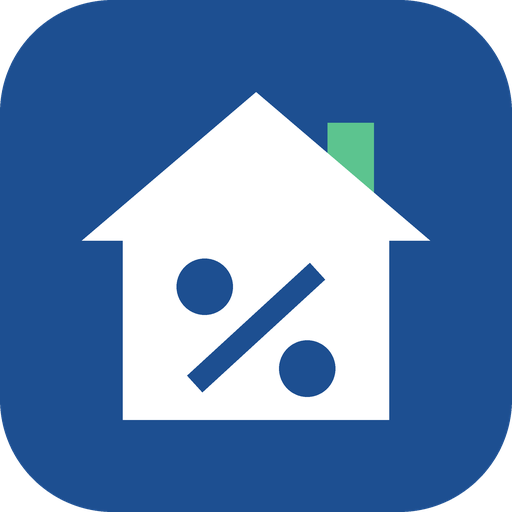
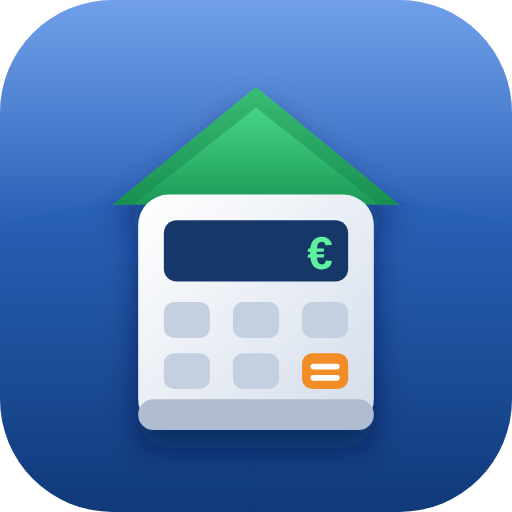
Novo ícone: casa-calculadora em 3D
Claude-Session: https://claude.ai/code/session_016Pmxm1s6DHVDCD6S7ZeTBk

diff --git a/sw.js b/sw.js
@@ -1,9 +1,9 @@
 // QuantoFica: funcionamento sem internet.
 // Ao publicar uma nova versão, altere VERSION para que os telemóveis recebam a atualização.
-const VERSION = "quantofica-2026-10-18d";
+const VERSION = "quantofica-2026-10-18e";
 const CORE = ["./", "./index.html", "./manifest.webmanifest",
-  "./icons/icon-192.png", "./icons/icon-512.png", "./icons/maskable-512.png",
-  "./icons/apple-touch-icon.png", "./icons/favicon-32.png"];
+  "./icons/icon-192.png?v=2", "./icons/icon-512.png?v=2", "./icons/maskable-512.png?v=2",
+  "./icons/apple-touch-icon.png?v=2", "./icons/favicon-32.png?v=2"];
 
 self.addEventListener("install", e => {
   e.waitUntil(caches.open(VERSION).then(c => c.addAll(CORE)).then(() => self.skipWaiting()));

diff --git a/index.html b/index.html
@@ -7,8 +7,8 @@
 <meta name="theme-color" content="#f3f5f8" media="(prefers-color-scheme: light)">
 <meta name="theme-color" content="#0f141c" media="(prefers-color-scheme: dark)">
 <link rel="manifest" href="manifest.webmanifest">
-<link rel="icon" type="image/png" sizes="32x32" href="icons/favicon-32.png">
-<link rel="apple-touch-icon" href="icons/apple-touch-icon.png">
+<link rel="icon" type="image/png" sizes="32x32" href="icons/favicon-32.png?v=2">
+<link rel="apple-touch-icon" href="icons/apple-touch-icon.png?v=2">
 <meta name="apple-mobile-web-app-capable" content="yes">
 <meta name="mobile-web-app-capable" content="yes">
 <meta name="apple-mobile-web-app-title" content="QuantoFica">
